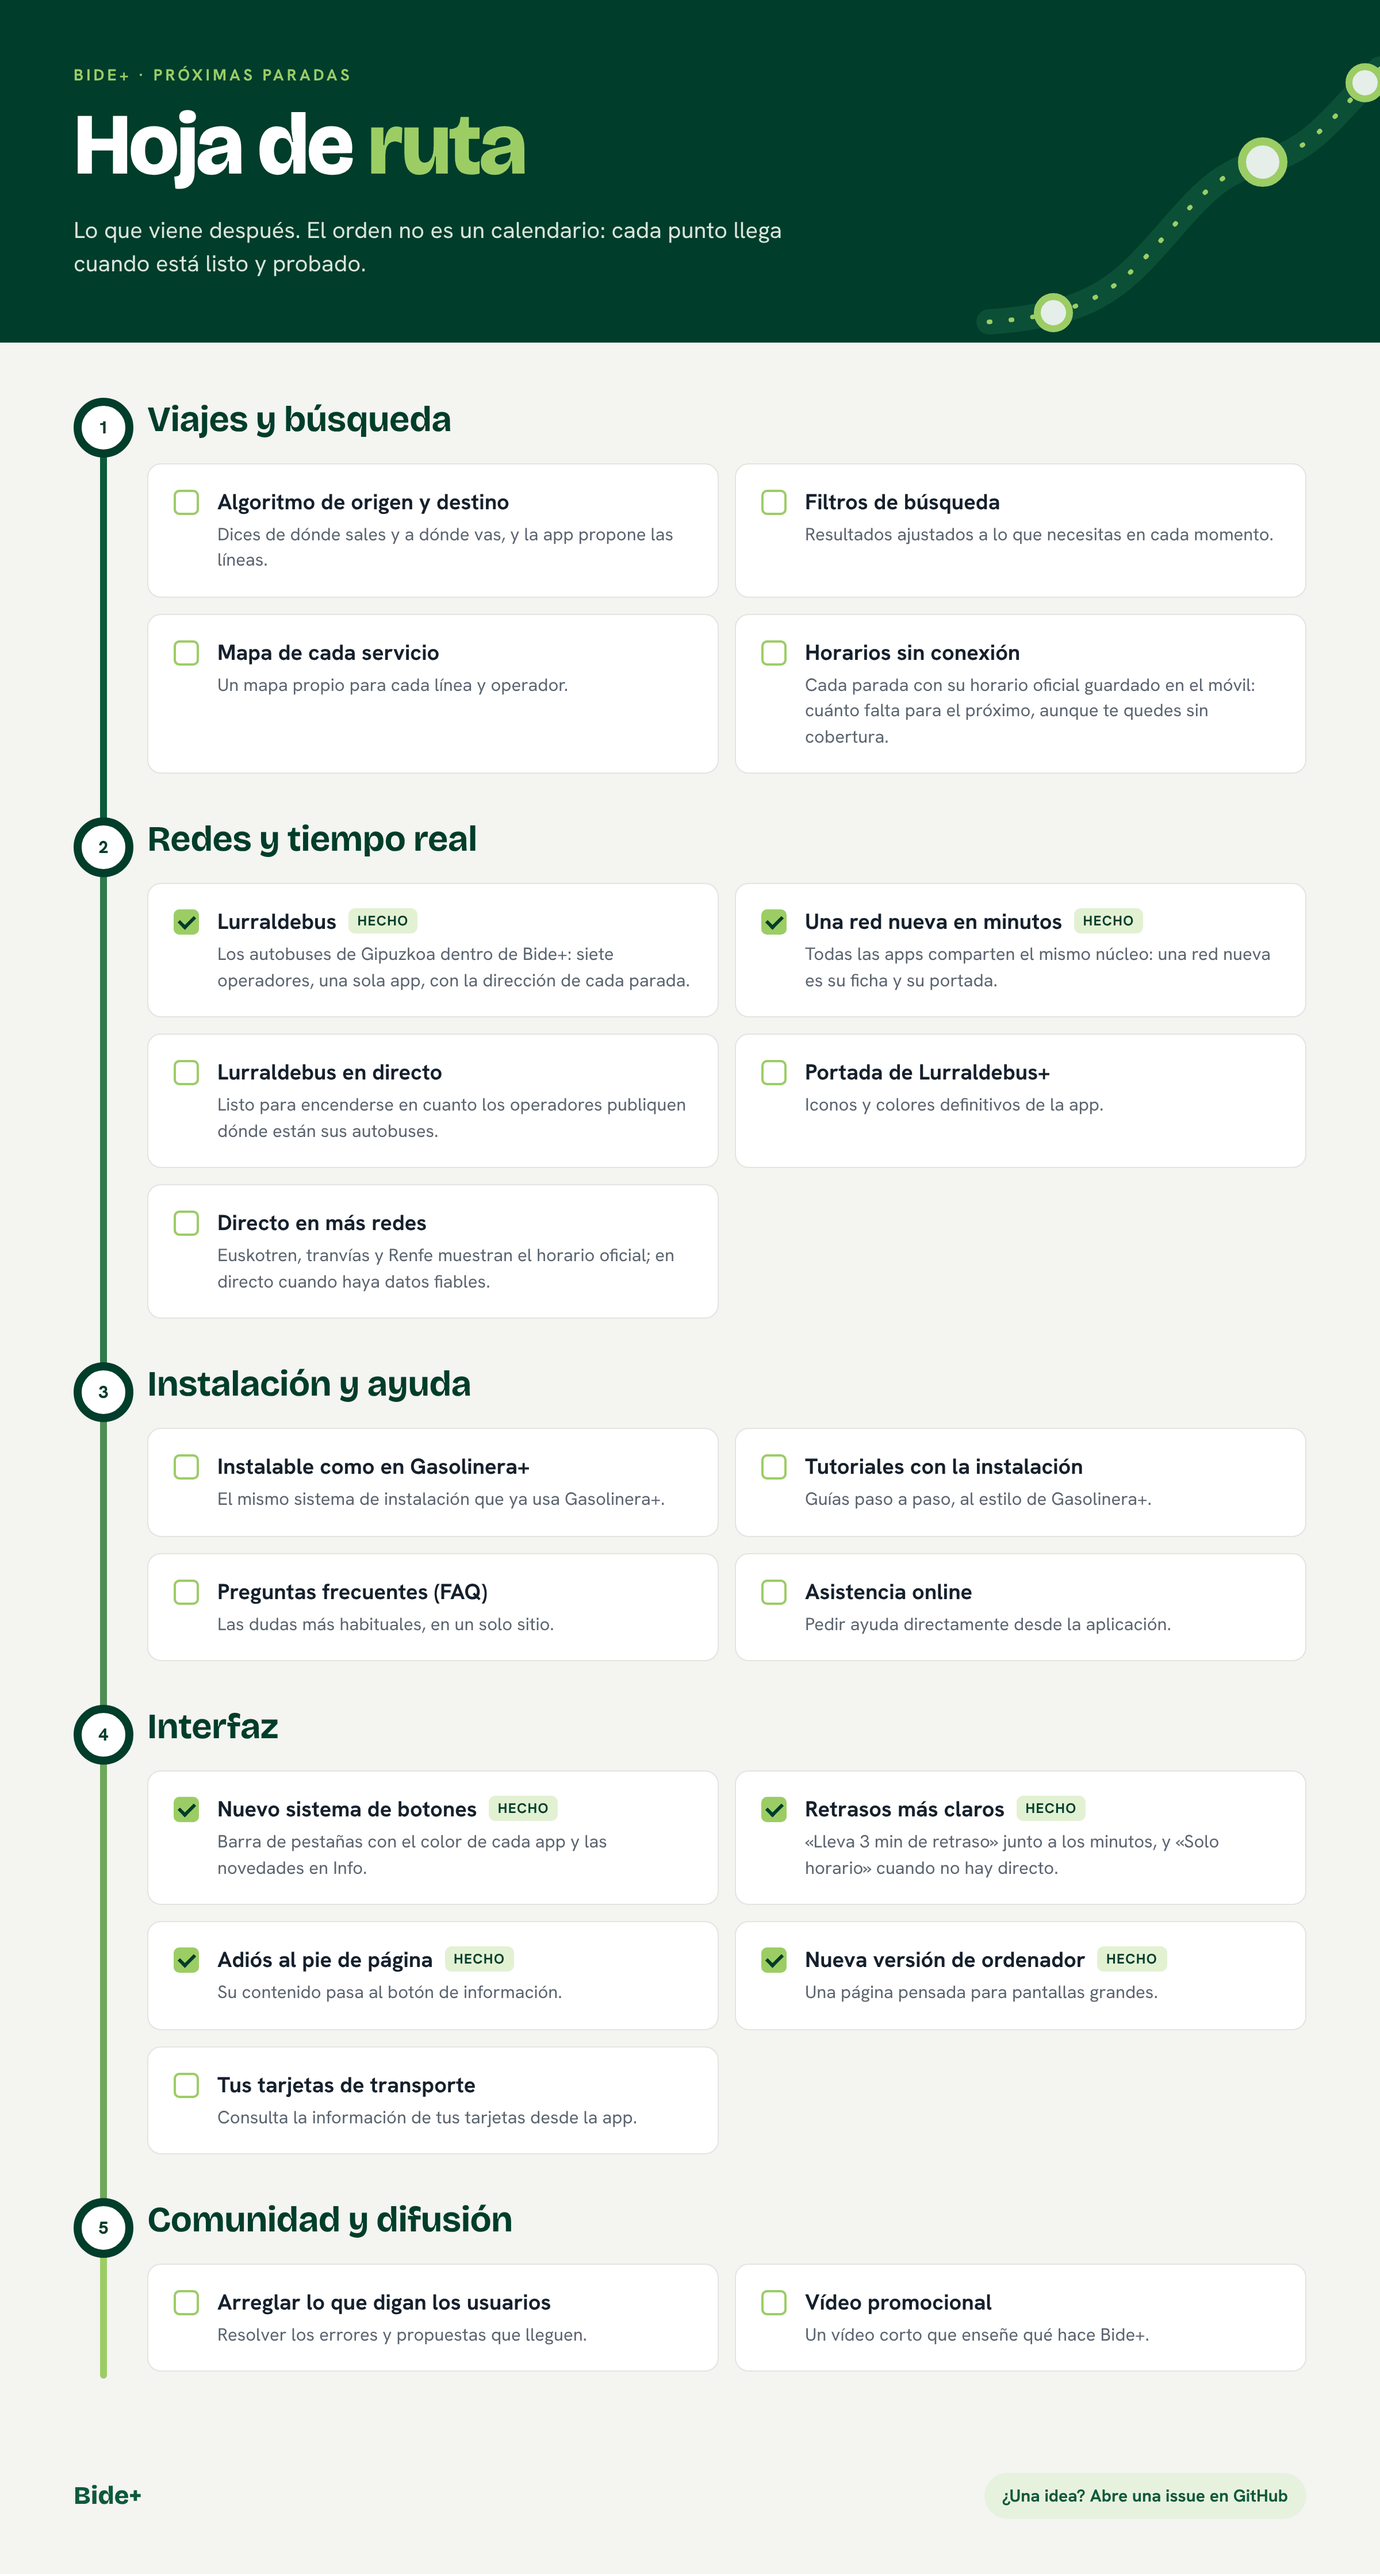
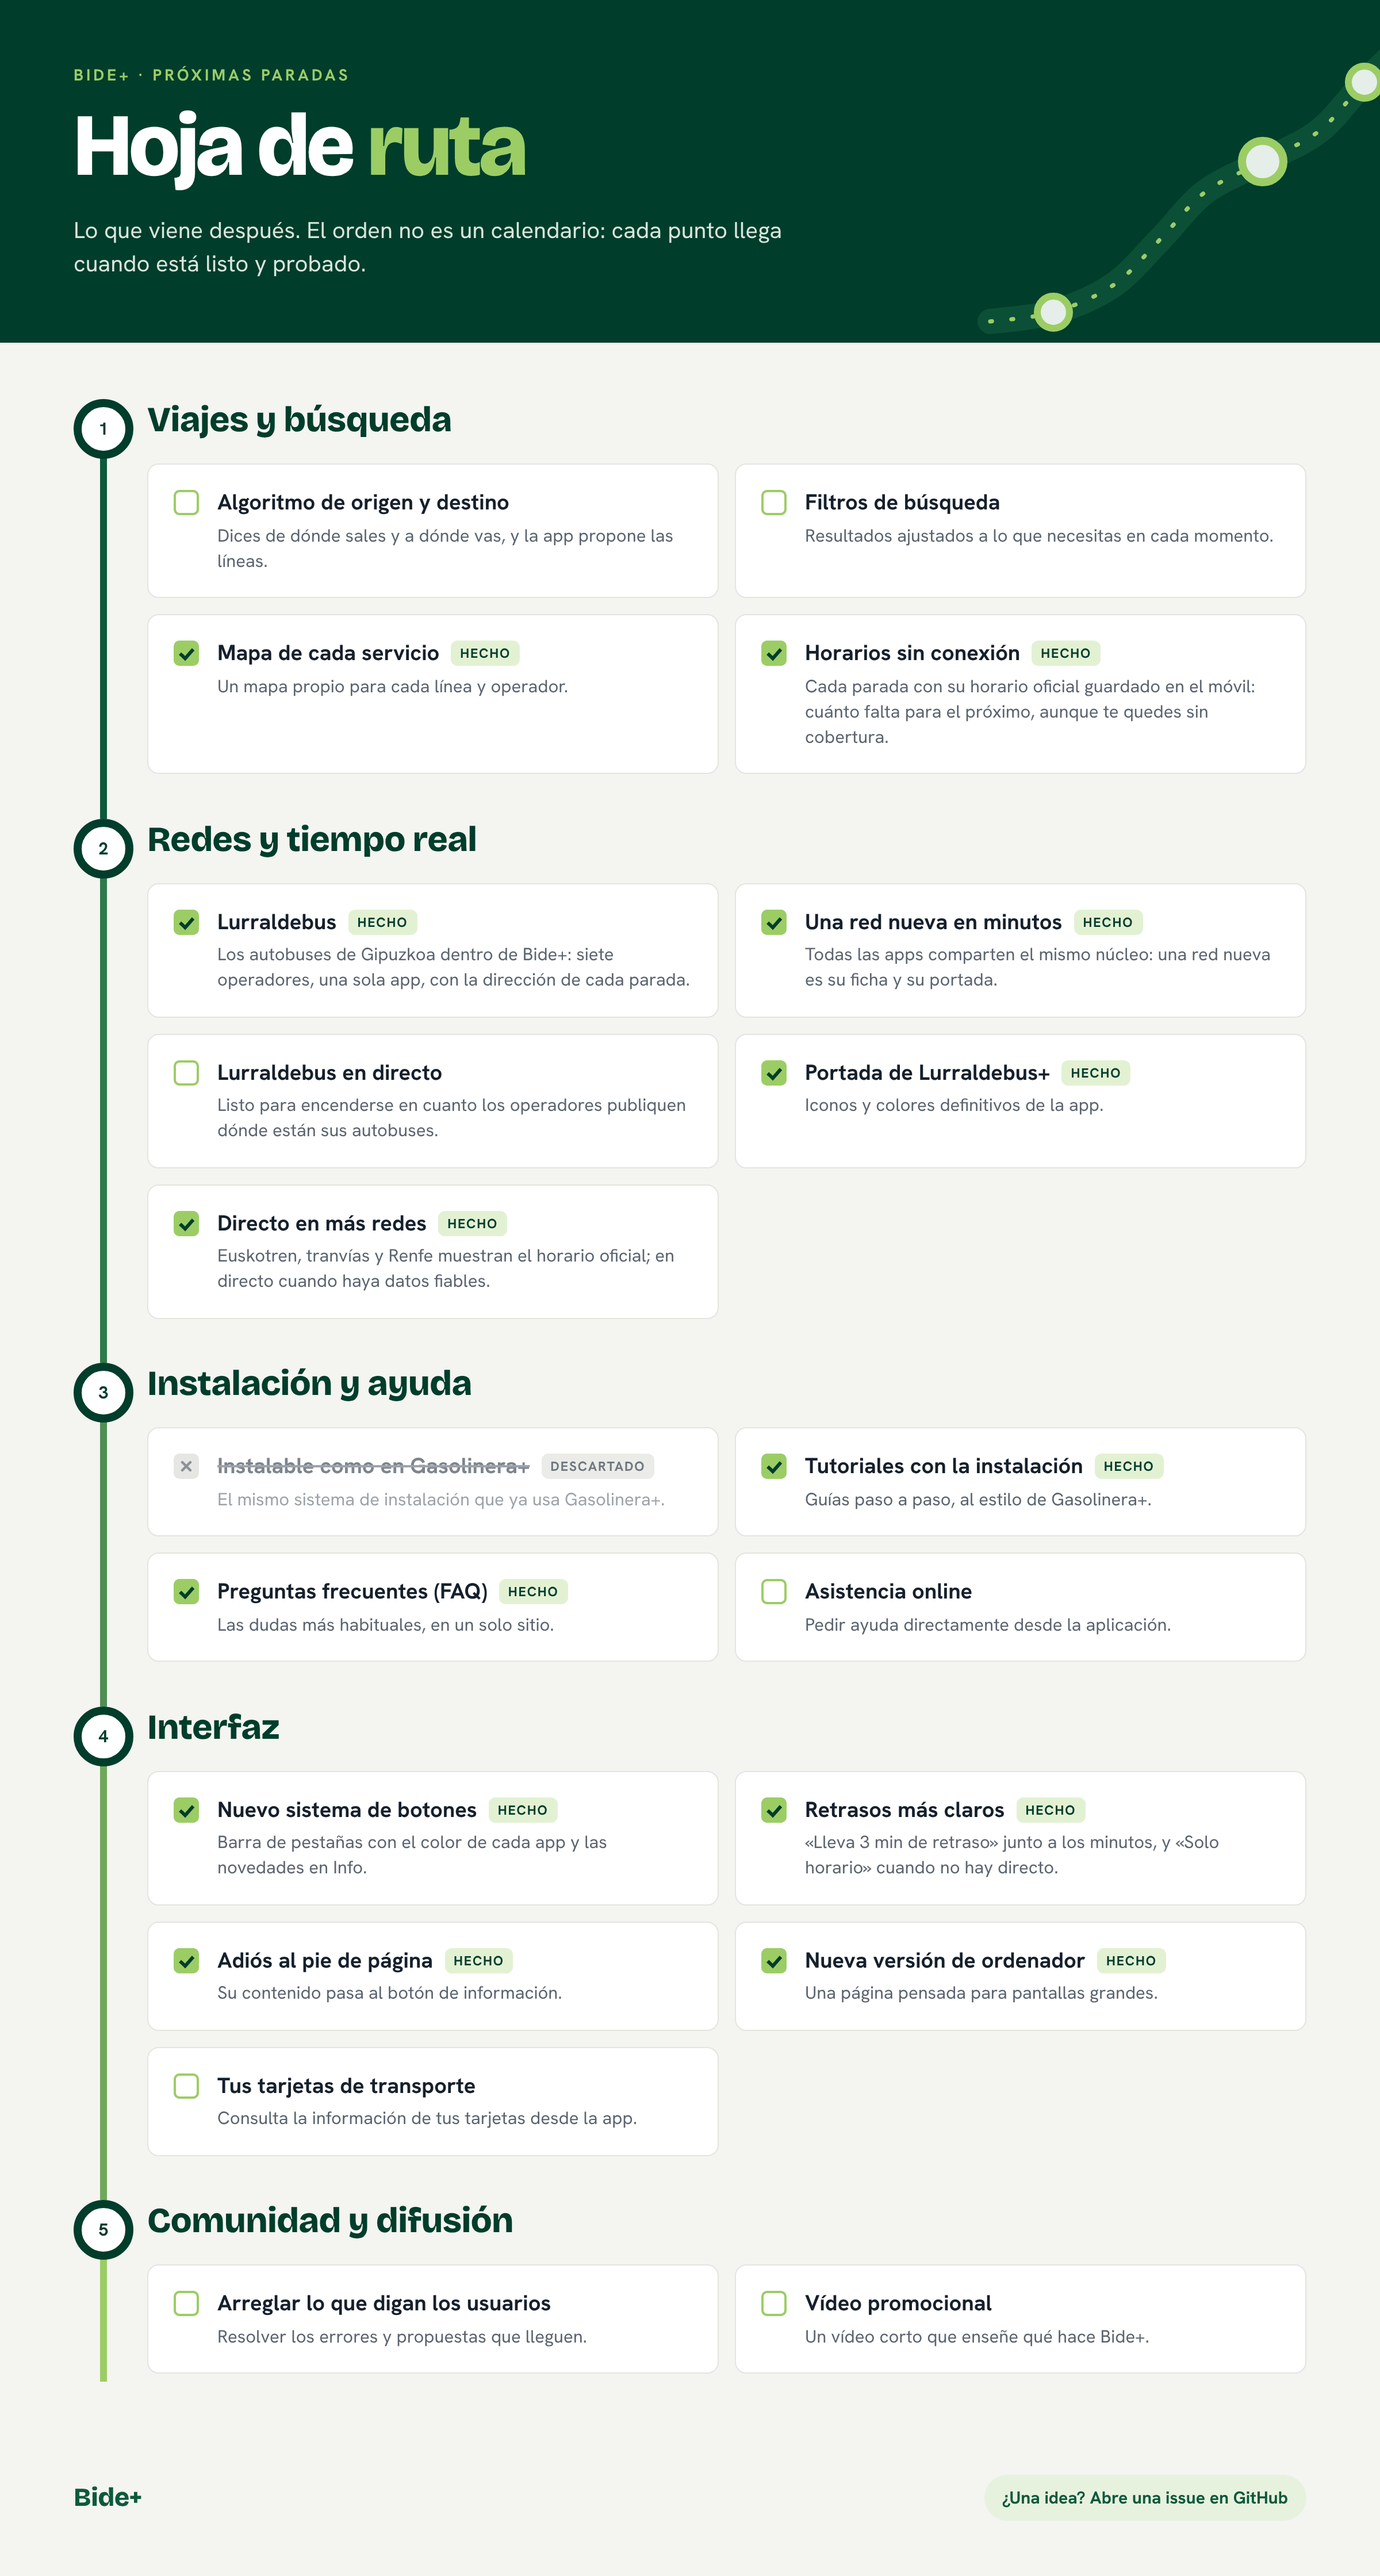
Hoja de ruta al día: mapa de cada servicio, horarios sin conexión, portada de Lurraldebus+, directo en más redes, tutoriales y FAQ hechos; instalable como en Gasolinera+, descartado

diff --git a/ROADMAP.md b/ROADMAP.md
@@ -1,7 +1,7 @@
 # Hoja de ruta
 
 <p align="center">
-  <img src=".github/assets/roadmap.png" width="900" alt="Hoja de ruta de Bide+. 1, Viajes y búsqueda: algoritmo de origen y destino, filtros de búsqueda, mapa de cada servicio y horarios sin conexión (cada parada con su horario oficial guardado en el móvil para saber cuánto falta sin cobertura). 2, Redes y tiempo real: hecho Lurraldebus (siete operadores de Gipuzkoa con la dirección de cada parada) y el núcleo común para añadir redes; pendiente Lurraldebus en directo, la portada definitiva de Lurraldebus+ y el directo en Euskotren, tranvías y Renfe. 3, Instalación y ayuda: instalable como en Gasolinera+, tutoriales con la instalación, preguntas frecuentes (FAQ) y asistencia online. 4, Interfaz: hecho el nuevo sistema de botones, los retrasos más claros, quitar el pie de página (su contenido pasa al botón de información) y la nueva versión de ordenador; pendiente la información de tus tarjetas de transporte. 5, Comunidad y difusión: arreglar lo que digan los usuarios y vídeo promocional.">
+  <img src=".github/assets/roadmap.png" width="900" alt="Hoja de ruta de Bide+. 1, Viajes y búsqueda: hecho el mapa de cada servicio y los horarios sin conexión (cada parada con su horario oficial guardado en el móvil para saber cuánto falta sin cobertura); pendiente el algoritmo de origen y destino y los filtros de búsqueda. 2, Redes y tiempo real: hecho Lurraldebus (siete operadores de Gipuzkoa con la dirección de cada parada), el núcleo común para añadir redes, la portada definitiva de Lurraldebus+ y el directo en Euskotren, tranvías y Renfe; pendiente Lurraldebus en directo. 3, Instalación y ayuda: hecho los tutoriales con la instalación y las preguntas frecuentes (FAQ); descartado instalable como en Gasolinera+; pendiente la asistencia online. 4, Interfaz: hecho el nuevo sistema de botones, los retrasos más claros, quitar el pie de página (su contenido pasa al botón de información) y la nueva versión de ordenador; pendiente la información de tus tarjetas de transporte. 5, Comunidad y difusión: arreglar lo que digan los usuarios y vídeo promocional.">
 </p>
 
 ¿Echas algo en falta o quieres proponer una idea? Abre una [issue](../../issues/new/choose).
